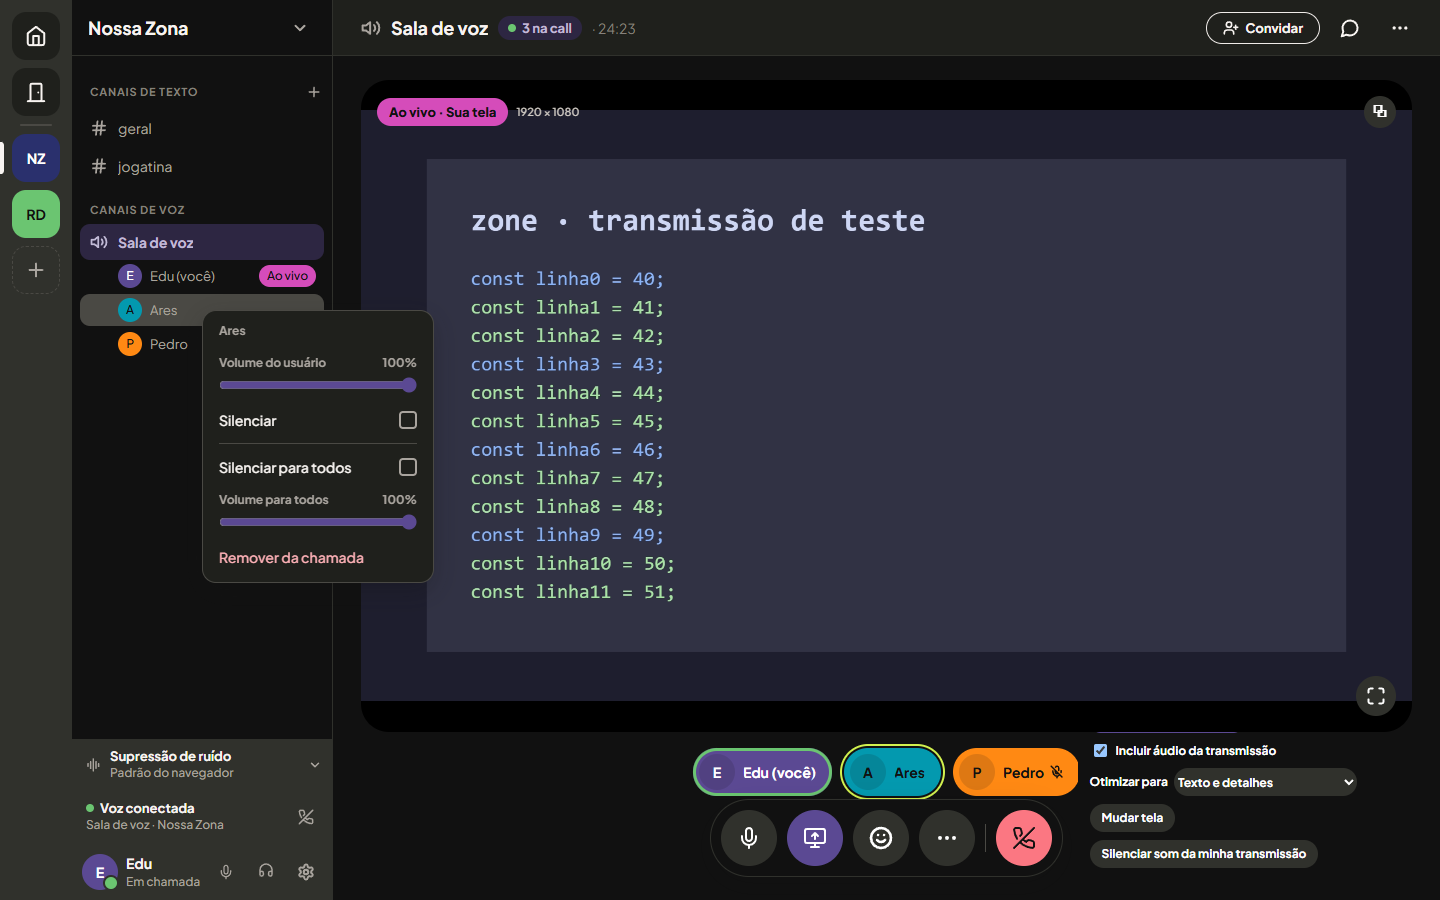
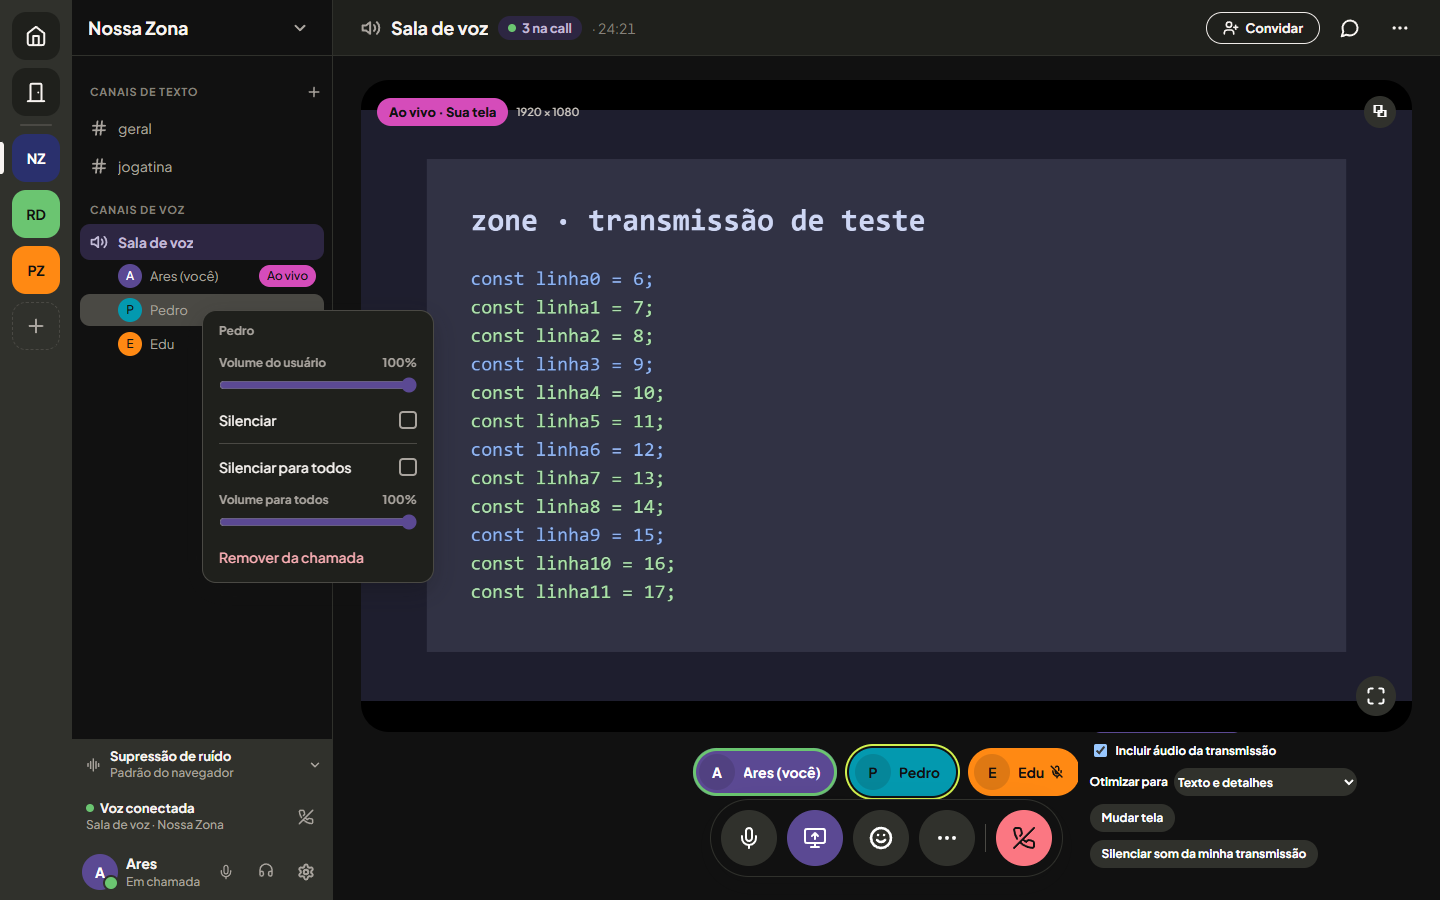
Prints com Ares como quem usa o app (Pedro e Edu são os outros) e um único print do escritório, com Ares e Pedro conversando perto e Edu na sala de reunião.

diff --git a/README.md b/README.md
@@ -16,9 +16,9 @@ com TURN da Cloudflare e cliente para Windows.
 > [amostras reais do código](amostras/). Posso dar acesso de leitura ao repositório
 > completo para avaliação técnica, é só pedir.
 
-![Chamada do Zone no tema escuro: tela compartilhada no palco, três pessoas na sala e o menu de opções aberto pelo clique direito na foto de Ares](docs/img/zone-chamada.png)
+![Chamada do Zone no tema escuro: tela compartilhada no palco, três pessoas na sala e o menu de opções aberto pelo clique direito na foto de Pedro](docs/img/zone-chamada.png)
 
-<sub>Chamada com a tela compartilhada no palco. O clique direito na foto de uma pessoa abre as opções dela: volume e silenciar só para mim e, para administradores, para todos. Embaixo, a supressão de ruído e a "Voz conectada", que continuam visíveis em qualquer tela.</sub>
+<sub>Ares compartilha a tela numa chamada com Pedro e Edu. O clique direito na foto de uma pessoa abre as opções dela: volume e silenciar só para mim e, para administradores, para todos. Embaixo, a supressão de ruído e a "Voz conectada", que continuam visíveis em qualquer tela.</sub>
 
 ---
 
@@ -60,7 +60,7 @@ variáveis CSS, então a tela e o design usam os mesmos valores.
 
 ![Início do Zone no tema claro: uma transmissão ao vivo em destaque e a lista de Zonas com quem está em voz](docs/img/zone-inicio-ao-vivo.png)
 
-<sub>Início: a transmissão de Ryan aparece em destaque e cada Zona mostra quantas pessoas estão online e em voz.</sub>
+<sub>Início: a transmissão de Pedro aparece em destaque e cada Zona mostra quantas pessoas estão online e em voz.</sub>
 
 ![Canal de texto no estilo Wafū claro: mensagens com reações, uma mensagem editada e quem está na sala de voz listado na lateral](docs/img/zone-chat-wafu.png)
 
@@ -101,7 +101,7 @@ variáveis CSS, então a tela e o design usam os mesmos valores.
 
 ![Escritório virtual: duas pessoas conversam pela proximidade e uma terceira está na sala de reunião](docs/img/escritorio-conversa.png)
 
-<sub>Escritório virtual com três pessoas. Ana e Bruno estão perto e se ouvem; os balões mostram o chat local. Carla está na sala de reunião e não recebe nada de fora.</sub>
+<sub>Escritório virtual com três pessoas, visto por Ares. Ares e Pedro estão perto e se ouvem; os balões mostram o chat local. Edu está na sala de reunião e não recebe a fala de quem está fora.</sub>
 
 ## Arquitetura
 
@@ -195,10 +195,6 @@ abre dentro da tela e a foto recortada sai com o pedaço escolhido.
 | Zone Call | 727 web (Vitest), 315 Go, 455 Python unitários e 255 de integração com banco real |
 | Escritório | 634 Go, 396 web, 43 Python com fluxos reais no Edge (áudio, tela, reuniões) |
 | App Windows | 36: isolados, WebRTC em segundo plano, perfil entre reinícios e troca de versão |
-
-![Sala de reunião: quem está dentro não recebe a fala de fora](docs/img/escritorio-sala-de-reuniao.png)
-
-<sub>A mesma cena do escritório vista por Carla, na sala de reunião: os balões de quem está fora não chegam até ela.</sub>
 
 ## Amostras do código
 
